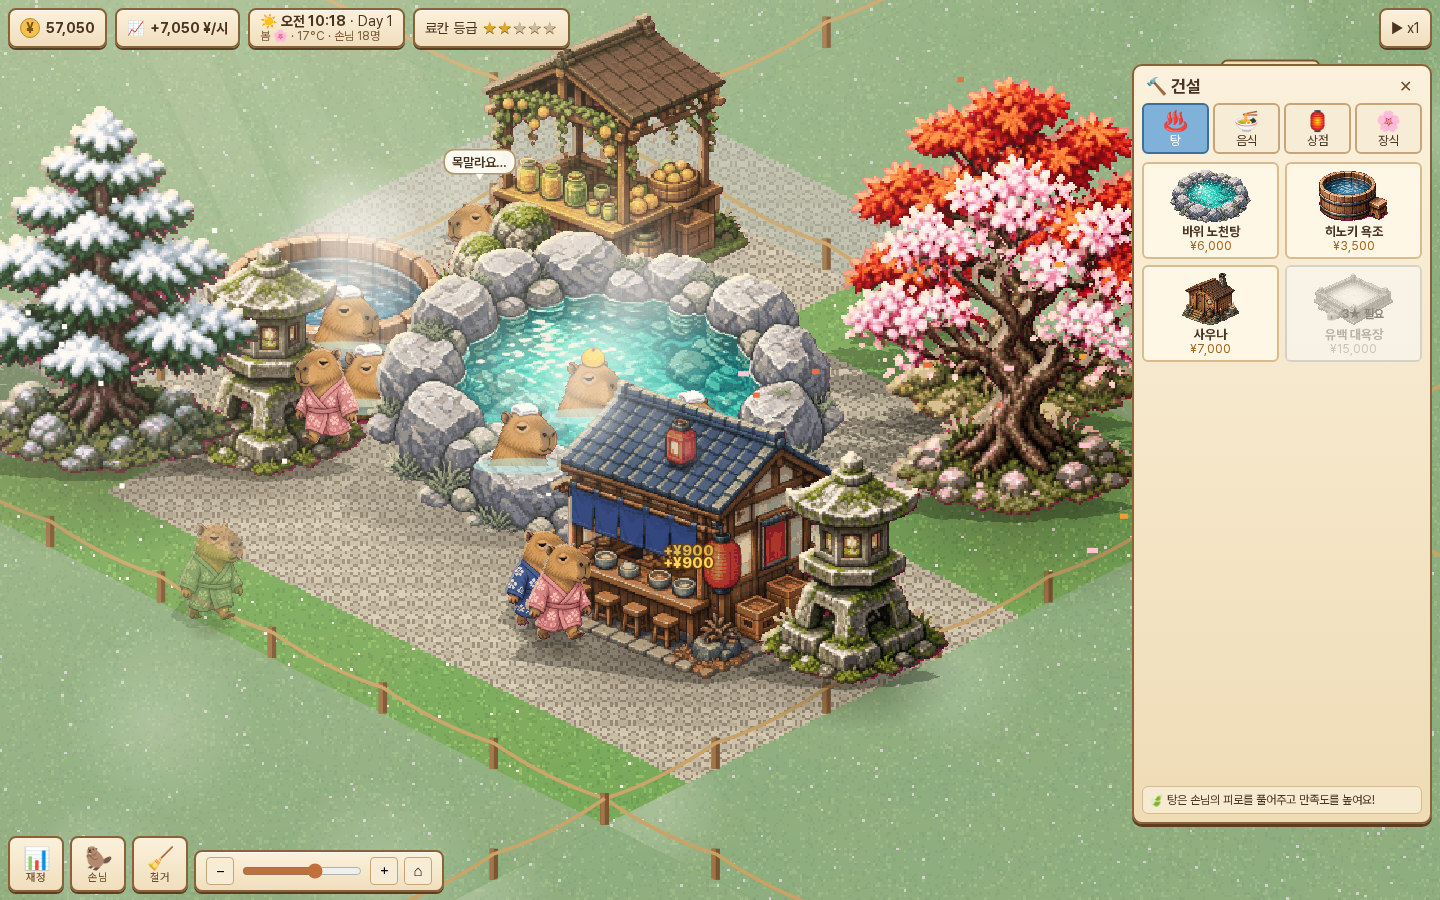
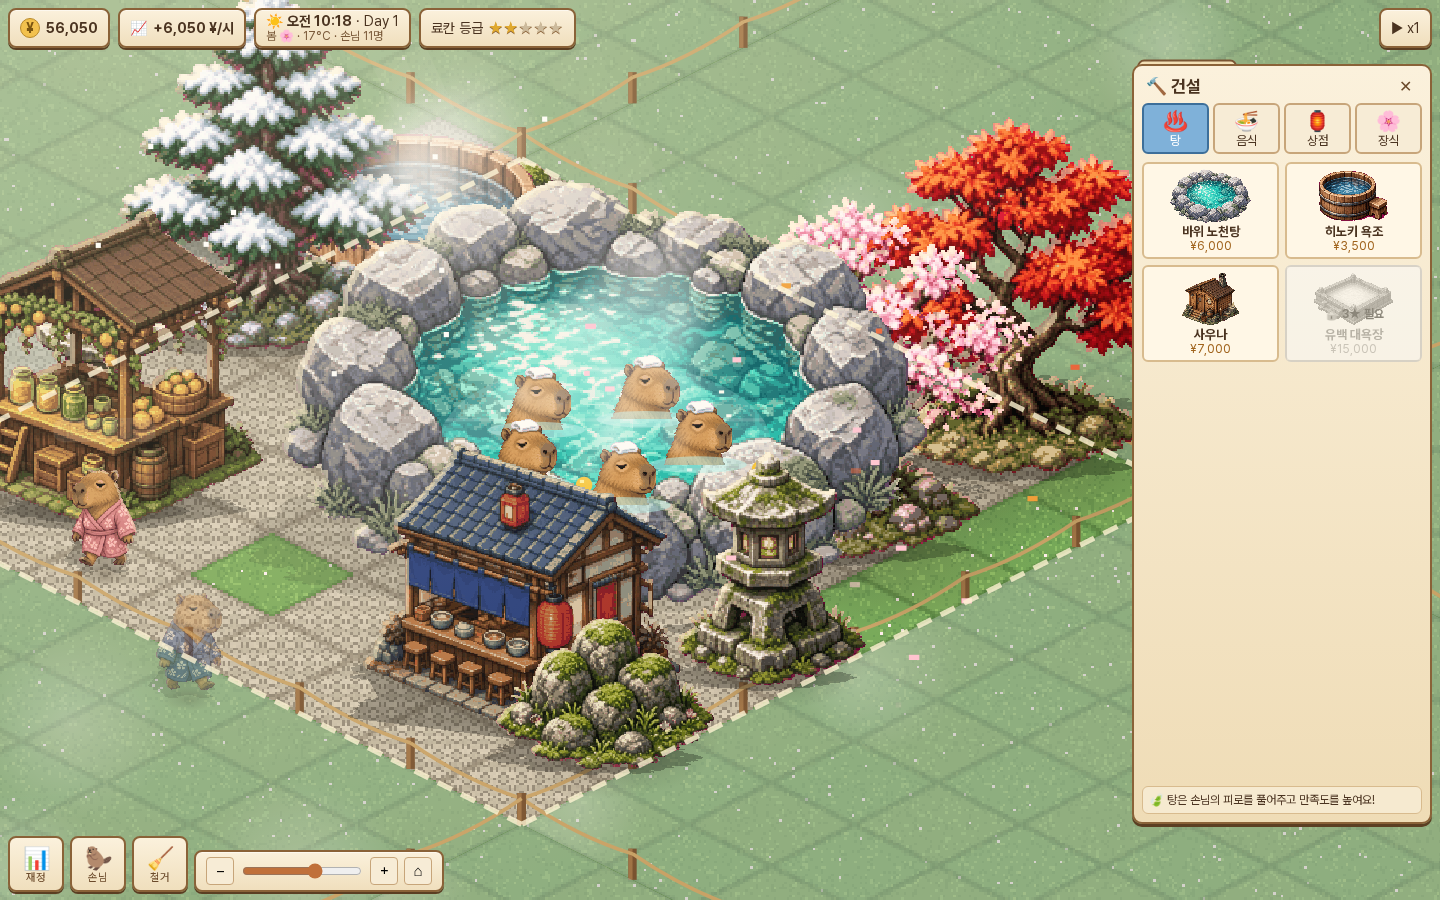
v2.1: footprint-fit sprites, occupancy + save migration, box depth sort, occlusion fade, A* guest paths, clearer grid, bubble stacking

diff --git a/game.js b/game.js
@@ -5,17 +5,17 @@ const START_PLOT=[1,1];
 const $=id=>document.getElementById(id);
 const cv=$('c'),cx=cv.getContext('2d'),tc=$('tc'),tx=tc.getContext('2d');
 const DEF={
- rock:{n:'바위 노천탕',tab:'bath',img:'rock',fp:3,sc:0.99,cost:6000,price:600,cap:4,dur:28,eff:{fatigue:-70,fun:12},wage:60,star:1,bath:1,water:'#8fe3df',appeal:12,desc:'김이 피어오르는 바위 노천탕'},
- hinoki:{n:'히노키 욕조',tab:'bath',img:'hinoki',fp:2,sc:0.87,cost:3500,price:450,cap:2,dur:22,eff:{fatigue:-50,fun:8},wage:35,star:1,bath:1,water:'#9fd6e6',appeal:7,desc:'편백나무 향 가득한 욕조'},
- sauna:{n:'사우나',tab:'bath',img:'sauna',fp:2,sc:0.97,cost:7000,price:700,cap:3,dur:20,eff:{fatigue:-40,fun:25},wage:55,star:2,appeal:8,light:[[0.1,-0.45]],desc:'땀 빼고 나면 개운!'},
- milky:{n:'유백 대욕장',tab:'bath',img:'milky',fp:3,sc:0.97,cost:15000,price:1100,cap:6,dur:30,eff:{fatigue:-85,fun:15},wage:110,star:3,bath:1,water:'#f1ede0',appeal:16,desc:'우윳빛 온천수의 대욕장'},
- ramen:{n:'라멘집',tab:'food',img:'ramen',fp:2,sc:1.03,cost:4000,price:900,cap:3,dur:15,eff:{hunger:-70,fun:5},wage:45,star:1,appeal:6,light:[[0.15,-0.55],[0.28,-0.3]],desc:'유자 시오 라멘이 명물'},
- teishoku:{n:'정식당',tab:'food',img:'teishoku',fp:2,sc:1.06,cost:9000,price:1600,cap:4,dur:20,eff:{hunger:-90,fun:10},wage:80,star:2,appeal:8,light:[[0.3,-0.35]],desc:'오늘의 유자 연어 정식'},
- izakaya:{n:'이자카야',tab:'food',img:'izakaya',fp:2,sc:1.01,cost:16000,price:2200,cap:5,dur:25,eff:{hunger:-50,thirst:-50,fun:40},wage:120,star:3,appeal:10,night:1,light:[[-0.1,-0.6],[0.1,-0.6],[0.3,-0.6]],desc:'밤에 북적이는 선술집'},
- milk:{n:'우유 매점',tab:'shop',img:'yuzu',filter:'saturate(0.35) brightness(1.12)',fp:2,sc:0.92,cost:1500,price:250,cap:3,dur:8,eff:{thirst:-70},wage:20,star:1,appeal:4,desc:'목욕 후엔 역시 커피우유'},
- yuzu:{n:'유자차 매점',tab:'shop',img:'yuzu',fp:2,sc:0.92,cost:2500,price:350,cap:3,dur:8,eff:{thirst:-60,fun:8},wage:25,star:1,appeal:6,desc:'따끈한 유자차 한 잔'},
- gift:{n:'기념품 가게',tab:'shop',img:'gift',fp:2,sc:0.99,cost:6000,price:1500,cap:3,dur:12,eff:{fun:-0,joy:30},wage:50,star:2,appeal:7,fun:1,light:[[0.2,-0.4]],desc:'카피바라 인형이 인기'},
- room:{n:'객실 별채',tab:'shop',img:'room',fp:3,sc:0.92,cost:12000,price:6000,cap:4,dur:0,eff:{fatigue:-100},wage:90,star:2,appeal:10,stay:1,light:[[-0.2,-0.3],[0.25,-0.3],[0,-0.55]],desc:'밤에 묵어가는 손님용 객실'},
+ rock:{n:'바위 노천탕',tab:'bath',img:'rock',fp:4,sc:1,cost:6000,price:600,cap:5,dur:28,eff:{fatigue:-70,fun:12},wage:60,star:1,bath:1,water:'#8fe3df',appeal:12,desc:'김이 피어오르는 바위 노천탕'},
+ hinoki:{n:'히노키 욕조',tab:'bath',img:'hinoki',fp:2,sc:1,cost:3500,price:450,cap:2,dur:22,eff:{fatigue:-50,fun:8},wage:35,star:1,bath:1,water:'#9fd6e6',appeal:7,desc:'편백나무 향 가득한 욕조'},
+ sauna:{n:'사우나',tab:'bath',img:'sauna',fp:2,sc:1,cost:7000,price:700,cap:3,dur:20,eff:{fatigue:-40,fun:25},wage:55,star:2,appeal:8,light:[[0.1,-0.45]],desc:'땀 빼고 나면 개운!'},
+ milky:{n:'유백 대욕장',tab:'bath',img:'milky',fp:4,sc:1,cost:15000,price:1100,cap:6,dur:30,eff:{fatigue:-85,fun:15},wage:110,star:3,bath:1,water:'#f1ede0',appeal:16,desc:'우윳빛 온천수의 대욕장'},
+ ramen:{n:'라멘집',tab:'food',img:'ramen',fp:2,sc:1,cost:4000,price:900,cap:3,dur:15,eff:{hunger:-70,fun:5},wage:45,star:1,appeal:6,light:[[0.15,-0.55],[0.28,-0.3]],desc:'유자 시오 라멘이 명물'},
+ teishoku:{n:'정식당',tab:'food',img:'teishoku',fp:2,sc:1,cost:9000,price:1600,cap:4,dur:20,eff:{hunger:-90,fun:10},wage:80,star:2,appeal:8,light:[[0.3,-0.35]],desc:'오늘의 유자 연어 정식'},
+ izakaya:{n:'이자카야',tab:'food',img:'izakaya',fp:2,sc:1,cost:16000,price:2200,cap:5,dur:25,eff:{hunger:-50,thirst:-50,fun:40},wage:120,star:3,appeal:10,night:1,light:[[-0.1,-0.6],[0.1,-0.6],[0.3,-0.6]],desc:'밤에 북적이는 선술집'},
+ milk:{n:'우유 매점',tab:'shop',img:'yuzu',filter:'saturate(0.35) brightness(1.12)',fp:2,sc:1,cost:1500,price:250,cap:3,dur:8,eff:{thirst:-70},wage:20,star:1,appeal:4,desc:'목욕 후엔 역시 커피우유'},
+ yuzu:{n:'유자차 매점',tab:'shop',img:'yuzu',fp:2,sc:1,cost:2500,price:350,cap:3,dur:8,eff:{thirst:-60,fun:8},wage:25,star:1,appeal:6,desc:'따끈한 유자차 한 잔'},
+ gift:{n:'기념품 가게',tab:'shop',img:'gift',fp:2,sc:1,cost:6000,price:1500,cap:3,dur:12,eff:{fun:-0,joy:30},wage:50,star:2,appeal:7,fun:1,light:[[0.2,-0.4]],desc:'카피바라 인형이 인기'},
+ room:{n:'객실 별채',tab:'shop',img:'room',fp:3,sc:1,cost:12000,price:6000,cap:4,dur:0,eff:{fatigue:-100},wage:90,star:2,appeal:10,stay:1,light:[[-0.2,-0.3],[0.25,-0.3],[0,-0.55]],desc:'밤에 묵어가는 손님용 객실'},
  sakura:{n:'벚꽃나무',tab:'deco',img:'sakura',fp:1,sc:2.3,cost:1200,beauty:8,star:1,emit:'petal',desc:'꽃잎이 흩날려요'},
  maple:{n:'단풍나무',tab:'deco',img:'maple',fp:1,sc:2.3,cost:1200,beauty:8,star:1,emit:'leaf',desc:'붉은 잎이 떨어져요'},
  pine:{n:'눈 내린 소나무',tab:'deco',img:'pine',fp:1,sc:2.0,cost:2000,beauty:10,star:2,emit:'snow',desc:'주변에 눈이 내려요'},
@@ -32,7 +32,7 @@ let S;
 function fresh(){
  const plots={};plots[START_PLOT.join(',')]=1;
  const o=[];const b=(k,x,y)=>o.push({k,x,y,lv:1,price:DEF[k].price||0,uses:0,earn:0});
- b('rock',10,10);b('lantern',9,13);b('sakura',14,9);b('rocks',9,10);for(let i=9;i<16;i++)b('path',i,14);
+ b('rock',10,9);b('lantern',9,14);b('sakura',14,10);b('rocks',9,9);for(let i=8;i<16;i++)b('path',i,15);for(let j=13;j<15;j++)b('path',12,j);
  return {yen:8000,min:8*60+40,plots,objs:o,fin:{inc:0,exp:0,hist:[]},rep:55,t:Date.now(),served:0,ver:2};
 }
 function load(){
@@ -43,6 +43,13 @@ function load(){
    return}}catch(e){}
  S=fresh();
 }
+function migrate(){ // 겹치거나 잠긴 땅의 건물 → 재배치 또는 환불
+ const keep=[],m={};let moved=0,refund=0;const fits=(o,x,y)=>{const f=DEF[o.k].fp;for(let i=0;i<f;i++)for(let j=0;j<f;j++){if(!tileOpen(x+i,y+j)||m[(x+i)+','+(y+j)])return false}return true};
+ const sorted=S.objs.filter(o=>DEF[o.k]).sort((a,b)=>(DEF[b.k].bath?1:0)-(DEF[a.k].bath?1:0)||DEF[b.k].fp-DEF[a.k].fp);
+ for(const o of sorted){let ok=fits(o,o.x,o.y);if(!ok&&o.k!='path'){let best=null;for(let r=1;r<10&&!best;r++)for(let dx=-r;dx<=r&&!best;dx++)for(let dy=-r;dy<=r;dy++)if(fits(o,o.x+dx,o.y+dy)){best=[o.x+dx,o.y+dy];break}
+   if(best){o.x=best[0];o.y=best[1];ok=true;moved++}}
+  if(ok){const f=DEF[o.k].fp;for(let i=0;i<f;i++)for(let j=0;j<f;j++)m[(o.x+i)+','+(o.y+j)]=1;keep.push(o)}else{refund+=DEF[o.k].cost;S.yen+=DEF[o.k].cost}}
+ S.objs=keep;if(moved||refund)setTimeout(()=>toast(`겹친 건물 정리: ${moved}개 이동${refund?`, ¥${fmt(refund)} 환불`:''}`),1200)}
 function save(){S.t=Date.now();localStorage.onsen2=JSON.stringify(S)}
 const fmt=n=>Math.floor(n).toLocaleString('ko-KR');
 function avgNet(){const h=S.fin.hist;if(!h.length)return 0;const a=h.slice(-24);return a.reduce((s,x)=>s+x,0)/a.length}
@@ -89,12 +96,14 @@ function buildGround(){
   for(let py=0;py<TH*2;py++)for(let px=0;px<TW*2;px++){
    const dx=Math.abs(px+0.5-TW)/(TW),dy=Math.abs(py+0.5-TH)/(TH);if(dx+dy>1)continue;
    let c;const n=r();
-   if(cob){const sx=Math.floor((px+py*2)/7),sy=Math.floor((px-py*2+140)/7);const seam=((px+py*2)%7==0)||((px-py*2+140)%7==0);
+   if(false){}if(cob){const sx=Math.floor((px+py*2)/7),sy=Math.floor((px-py*2+140)/7);const seam=((px+py*2)%7==0)||((px-py*2+140)%7==0);
      const v=((sx*7+sy*13+x*3+y*5)%5)*6;c=seam?[150,140,124]:[196+v-n*10,186+v-n*10,166+v-n*8];}
    else{const v=n<0.08?22:n<0.2?-12:0;const fl=n>0.995;c=fl?[255,240,246]:[118+v+((x+y)%2)*4,170+v,92+v*0.6];
      if(n>0.985&&!fl)c=[150,196,108];}
    const i=(py*TW*2+px)*4;id.data[i]=c[0];id.data[i+1]=c[1];id.data[i+2]=c[2];id.data[i+3]=255;}
   const tmp=mk(TW*2,TH*2);tmp.getContext('2d').putImageData(id,0,0);g.drawImage(tmp,X-TW/2,Y,TW,TH);
+  g.beginPath();g.moveTo(X,Y+0.25);g.lineTo(X+TW/2-0.5,Y+TH/2);g.lineTo(X,Y+TH-0.25);g.lineTo(X-TW/2+0.5,Y+TH/2);g.closePath();
+  g.lineWidth=0.5;g.strokeStyle=cob?'rgba(90,78,62,0.45)':'rgba(48,84,36,0.42)';g.stroke();
  }
  groundDirty=false;
 }
@@ -123,10 +132,10 @@ const THOUGHT={
  pricey:['너무 비싸요…','가격이 좀…','지갑이 울어요'],
  none:{fatigue:'쉴 곳이 없네…',hunger:'뭐 먹을 데 없나…',thirst:'목말라요…',fun:'좀 심심하다'},
  want:{fatigue:'온천 하고 싶다',hunger:'배고파요',thirst:'우유 마시고 싶다',fun:'구경하고 싶어요'}};
-function entrance(){let best=null;for(const k in S.plots){const[px,py]=k.split(',').map(Number);if(!best||px+py>best[0]+best[1])best=[px,py]}return[best[0]*PS+PS/2,best[1]*PS+PS+0.3]}
+function entrance(){const s=START_PLOT;return[s[0]*PS+PS/2,s[1]*PS+PS]}
 function spawnRate(){const h=hour();const f=h<6?0.05:h<9?0.5:h<12?0.7:h<15?0.6:h<17?0.8:h<21?1.15:h<23?0.5:0.15;return f*(0.12+stars()*0.06)}
 function spawn(){const[ex,ey]=entrance();const vip=Math.random()<0.1*stars();
- guests.push({x:ex+(Math.random()-0.5)*2,y:ey,tx:ex,ty:ey-1,st:'walk',spr:'cw'+(1+(Math.random()*4|0)),cb:'cb'+(1+(Math.random()*4|0)),
+ guests.push({x:ex+0.5,y:ey+0.8,tx:ex+0.5,ty:ey-0.5,path:[[ex+0.5,ey-0.5]],st:'walk',spr:'cw'+(1+(Math.random()*4|0)),cb:'cb'+(1+(Math.random()*4|0)),
   need:{fatigue:50+Math.random()*45,hunger:20+Math.random()*60,thirst:20+Math.random()*60,fun:20+Math.random()*50},
   budget:Math.round((2500+Math.random()*5000)*(vip?2.2:1)),happy:60,t:0,target:null,life:0,dir:1,bob:Math.random()*6,fade:0})}
 function pickTarget(g){
@@ -143,12 +152,23 @@ function pickBy(g,list,nk){list.sort((a,b)=>(dist(g,a)+a.price/300)-(dist(g,b)+b
 const ctr=o=>{const f=DEF[o.k].fp;return[o.x+f/2,o.y+f/2]};
 const dist=(g,o)=>{const[a,b]=ctr(o);return Math.hypot(a-g.x,b-g.y)};
 function think(g,t){if(!t)return;bubbles=bubbles.filter(b=>b.g!==g);if(bubbles.length>=4)return;bubbles.push({g,t,l:3.2})}
-function door(o){const f=DEF[o.k].fp;return[o.x+f/2,o.y+f+0.25]}
-function bathSlot(o,i){const f=DEF[o.k].fp,c=ctr(o),n=DEF[o.k].cap+o.lv-1;const a=(i/n)*Math.PI*2+0.6;const r=f*0.24;return[c[0]+Math.cos(a)*r,c[1]+Math.sin(a)*r]}
+function walkable(x,y){if(!tileOpen(x,y))return false;const o=OCC[x+','+y];return !o||o.k=='path'||DEF[o.k].fp==1&&o.k=='path'}
+function doorTile(o){const f=DEF[o.k].fp;const c=[[o.x+(f>>1),o.y+f],[o.x+f,o.y+(f>>1)],[o.x+(f>>1),o.y-1],[o.x-1,o.y+(f>>1)]];for(let i=0;i<f;i++)c.push([o.x+i,o.y+f],[o.x+f,o.y+i],[o.x-1,o.y+i],[o.x+i,o.y-1]);return c.find(([x,y])=>walkable(x,y))}
+function door(o){const d=doorTile(o)||[o.x,o.y+DEF[o.k].fp];return[d[0]+0.5,d[1]+0.5]}
+function findPath(sx,sy,ex,ey){sx|=0;sy|=0;ex|=0;ey|=0;if(sx==ex&&sy==ey)return[];
+ const K=(x,y)=>y*N+x,open=[[0,sx,sy]],g={},from={};g[K(sx,sy)]=0;let it=0;
+ while(open.length&&it++<3000){let bi=0;for(let i=1;i<open.length;i++)if(open[i][0]<open[bi][0])bi=i;const[,x,y]=open.splice(bi,1)[0];
+  if(x==ex&&y==ey){const p=[];let k=K(x,y);while(k!=K(sx,sy)){p.unshift([k%N+0.5,Math.floor(k/N)+0.5]);k=from[k]}return p}
+  for(const[dx,dy]of[[1,0],[-1,0],[0,1],[0,-1]]){const nx=x+dx,ny=y+dy;if(!(nx==ex&&ny==ey)&&!walkable(nx,ny))continue;
+   const o=OCC[nx+','+ny];const c=g[K(x,y)]+(o&&o.k=='path'?0.6:1);if(g[K(nx,ny)]==null||c<g[K(nx,ny)]){g[K(nx,ny)]=c;from[K(nx,ny)]=K(x,y);open.push([c+Math.abs(ex-nx)+Math.abs(ey-ny),nx,ny])}}}
+ return null}
+function goTo(g,x,y){const p=findPath(g.x,g.y,x,y);if(!p){g.path=[];return false}g.path=p;return true}
+function bathSlot(o,i){const f=DEF[o.k].fp,c=ctr(o),n=DEF[o.k].cap+o.lv-1;const a=(i/n)*Math.PI*2+0.6;const r=f*0.2;return[c[0]+Math.cos(a)*r,c[1]+Math.sin(a)*r]}
 function updGuest(g,dt){
  g.life+=dt;g.fade=Math.min(1,g.fade+dt*2);for(const k of NEEDK)g.need[k]=Math.min(100,g.need[k]+dt*(k=='fatigue'?0.2:0.9));
  g.happy=Math.max(0,Math.min(100,g.happy+(beautyAt(g.x,g.y)*0.02-0.03)*dt));
- if(g.st=='walk'){const dx=g.tx-g.x,dy=g.ty-g.y,d=Math.hypot(dx,dy);
+ if(g.st=='walk'){if(g.path&&g.path.length){g.tx=g.path[0][0];g.ty=g.path[0][1]}const dx=g.tx-g.x,dy=g.ty-g.y,d=Math.hypot(dx,dy);
+  if(d<=0.05&&g.path&&g.path.length){g.path.shift();return}
   if(d>0.05){const sp=1.3*dt;g.x+=dx/d*Math.min(sp,d);g.y+=dy/d*Math.min(sp,d);g.dir=(dx-dy)>=0?1:-1;return}
   if(g.target){arrive(g);return}
   if(g.leaving){g.dead=1;return}
@@ -158,8 +178,8 @@ function updGuest(g,dt){
 function decide(g){
  if(g.life>220||g.budget<200||g.happy<15){leave(g);return}
  const o=pickTarget(g);if(!o){if(NEEDK.every(k=>g.need[k]<35)||Math.random()<0.4){leave(g);return}
-  const[ex,ey]=entrance();g.tx=ex+(Math.random()-0.5)*4;g.ty=ey-1-Math.random()*3;if(!tileOpen(g.tx|0,g.ty|0)){g.tx=ex;g.ty=ey-1}return}
- g.target=o;const[a,b]=door(o);g.tx=a;g.ty=b;}
+  for(let i=0;i<8;i++){const x=(Math.random()*N)|0,y=(Math.random()*N)|0;if(walkable(x,y)&&goTo(g,x,y))return}leave(g);return}
+ const dt_=doorTile(o);if(!dt_||!goTo(g,dt_[0],dt_[1])){think(g,'길이 막혔어요…');(g.used=g.used||[]).push(o);g.happy-=3;g.path=[];return}g.target=o;}
 function arrive(g){const o=g.target,d=DEF[o.k];g.target=null;o.users=o.users||0;
  if(!S.objs.includes(o)){decide(g);return}
  const cap=d.cap+o.lv-1;if(o.users>=cap){think(g,'자리가 없네…');g.happy-=4;(g.used=g.used||[]).push(o);return}
@@ -174,8 +194,8 @@ function arrive(g){const o=g.target,d=DEF[o.k];g.target=null;o.users=o.users||0;
  if(d.joy)g.happy+=d.joy*0.3;if(d.bath&&Math.random()<0.6)setTimeout(()=>think(g,THOUGHT.good[Math.random()*6|0]),1500);}
 function freeSlot(o){const used=guests.filter(x=>x.cur===o&&x.inBath).map(x=>x.slot);for(let i=0;i<20;i++)if(!used.includes(i))return i;return 0}
 function finish(g){const o=g.cur;if(o)o.users=Math.max(0,o.users-1);(g.used=g.used||[]).push(o);if(g.used.length>3)g.used.shift();
- g.cur=null;g.hide=false;if(g.inBath){const[a,b]=door(o);g.x=a;g.y=b;g.inBath=false}g.st='walk';g.tx=g.x;g.ty=g.y}
-function leave(g){g.leaving=true;g.target=null;const[ex,ey]=entrance();g.tx=ex+(Math.random()-0.5)*2;g.ty=ey+1.2;
+ g.cur=null;g.hide=false;const[a,b]=door(o);g.x=a;g.y=b;g.inBath=false;g.st='walk';g.tx=g.x;g.ty=g.y;g.path=[]}
+function leave(g){g.leaving=true;g.target=null;const[ex,ey]=entrance();if(!goTo(g,ex,ey-1))g.path=[[ex+0.5,ey-0.5]];g.path.push([ex+0.5,ey+0.8]);
  S.rep=S.rep*0.97+g.happy*0.03;if(g.happy>70&&Math.random()<0.5)think(g,'또 올게요~');}
 const toScreenT=(x,y)=>{const[a,b]=iso(x,y);return toScreen(a,b)};
 // ===== 파티클 =====
@@ -199,7 +219,7 @@ function drawSprite(key,o,X,Y,W,lt,sv,alpha){ // X,Y: 바닥 중앙(월드), W: 
 function drawShadow(key,X,Y,W,lt,sv,str){const v=VAR[key];if(!v||lt.sun<0.1)return;const h=W*v.base.height/v.base.width;
  cx.save();cx.globalAlpha=0.28*lt.sun*(str||1);cx.translate(X,Y);cx.transform(1,0,-sv.kx,sv.ky,0,0);cx.drawImage(v.sil,-W/2,-h,W,h);cx.restore()}
 function ao(X,Y,rx,ry,a){const g=cx.createRadialGradient(X,Y,0,X,Y,rx);g.addColorStop(0,`rgba(40,30,20,${a})`);g.addColorStop(1,'rgba(40,30,20,0)');cx.save();cx.translate(X,Y);cx.scale(1,ry/rx);cx.translate(-X,-Y);cx.fillStyle=g;cx.fillRect(X-rx,Y-rx,rx*2,rx*2);cx.restore()}
-function objGeom(o){const d=DEF[o.k],f=d.fp;const[cX,cY]=iso(o.x+f/2,o.y+f/2);const sY=iso(o.x+f,o.y+f)[1];return{X:cX,Y:sY-f*1.2,cY,W:f*TW*(d.sc||1)}}
+function objGeom(o){const d=DEF[o.k],f=d.fp;const[cX,cY]=iso(o.x+f/2,o.y+f/2);const sY=iso(o.x+f,o.y+f)[1];const W=f*TW*(d.sc||1);const v=VAR[o.k];const H=v?W*v.base.height/v.base.width:W;return{X:cX,Y:sY+(f==1?-1:0.5),cY,W,H}}
 function render(t){
  const lt=light(),sv=sunVec(),z=cam.z;
  cx.setTransform(DPR,0,0,DPR,0,0);cx.imageSmoothingEnabled=false;
@@ -213,14 +233,22 @@ function render(t){
  drawPlots(t,lt);
  // 그림자 + 오브젝트 + 손님 정렬
  const list=[];
- for(const o of S.objs){if(o.k=='path')continue;const d=DEF[o.k];list.push({z:o.x+o.y+d.fp*2-1,o})}
- for(const g of guests)if(!g.hide)list.push({z:g.inBath?g.cur.x+g.cur.y+DEF[g.cur.k].fp*2-1+0.01+g.y*0.001:g.x+g.y+0.2,g});
- list.sort((a,b)=>a.z-b.z);
- for(const it of list)if(it.o){const o=it.o,G=objGeom(o),key=o.k;ao(G.X,G.cY+DEF[o.k].fp*3,G.W*0.55,G.W*0.28,0.35);drawShadow(key,G.X,G.Y,G.W,lt,sv,DEF[o.k].bath?0.4:1)}
+ for(const o of S.objs){if(o.k=='path')continue;const f=DEF[o.k].fp;list.push({x0:o.x,y0:o.y,x1:o.x+f,y1:o.y+f,o})}
+ for(const g of guests)if(!g.hide&&!g.inBath)list.push({x0:g.x-0.15,y0:g.y-0.15,x1:g.x+0.15,y1:g.y+0.15,g});
+ list.forEach(a=>a.z=a.x1+a.y1);
+ const cmp=(a,b)=>{if(a.x1<=b.x0+1e-3&&!(b.x1<=a.x0))return a.y0>=b.y1?1:-1;if(b.x1<=a.x0+1e-3)return b.y0>=a.y1?-1:1;if(a.y1<=b.y0+1e-3)return -1;if(b.y1<=a.y0+1e-3)return 1;return a.z-b.z};
+ // 삽입 정렬(위상 근사)
+ const sorted=[];for(const a of list.sort((p,q)=>p.z-q.z)){let i=sorted.length;while(i>0&&cmp(sorted[i-1],a)>0)i--;sorted.splice(i,0,a)}list.length=0;list.push(...sorted);
+ // 뒤에 가려진 손님/커서가 있으면 건물 반투명
+ const hidden=new Set();for(const it of list){if(!it.o)continue;const o=it.o,G=objGeom(o);
+  const pts=guests.filter(g=>!g.hide&&!g.inBath&&g.x<it.x1&&g.y<it.y1&&!(g.x>=it.x0&&g.y>=it.y0)&&(g.x+g.y)<it.x1+it.y1-0.5).map(g=>iso(g.x,g.y));
+  if(hoverT&&ghost)pts.push(iso(hoverT[0]+0.5,hoverT[1]+0.5));
+  if(pts.some(([X,Y])=>Math.abs(X-G.X)<G.W*0.42&&Y<G.Y-6&&Y>G.Y-G.H*0.9))hidden.add(o)}
+ for(const it of list)if(it.o){const o=it.o,G=objGeom(o),key=o.k;ao(G.X,G.cY,G.W*0.5,G.W*0.25,0.3);drawShadow(key,G.X,G.Y,G.W,lt,sv,DEF[o.k].bath?0.4:1)}
  for(const it of list){
   if(it.o){const o=it.o,d=DEF[o.k],G=objGeom(o);const an=anims['o'+S.objs.indexOf(o)];const pop=an?Math.min(1,an.t*3):1;
-   const Wp=G.W*(0.7+0.3*easeOut(pop));drawSprite(o.k,o,G.X,G.Y,Wp,lt,sv,pop);
-   if(d.bath)drawWater(o,G,t,lt);
+   const Wp=G.W*(0.7+0.3*easeOut(pop));const fade=hidden.has(o)&&!d.bath&&d.fp>1;drawSprite(o.k,o,G.X,G.Y,Wp,lt,sv,pop*(fade?0.5:1));
+   if(d.bath){drawWater(o,G,t,lt);guests.filter(g=>g.inBath&&g.cur===o).sort((a,b)=>a.x+a.y-b.x-b.y).forEach(g=>drawGuest(g,t,lt,sv))}
    if(o.lv>1){for(let i=0;i<o.lv-1;i++){cx.fillStyle='#f6cf5a';cx.fillRect(G.X-8+i*4,G.Y+1,3,3)}}}
   else drawGuest(it.g,t,lt,sv);}
  // 파티클
@@ -233,6 +261,8 @@ function render(t){
    for(let i=0;i<3;i++){const ox=G.X-G.W*0.35+i*G.W*0.3+Math.sin(t/3000+i)*4;const a=(0.07+0.04*Math.sin(t/1700+i*2))*lt.sun;
     const gr=cx.createLinearGradient(ox-40,G.cY-90,ox,G.cY);gr.addColorStop(0,'rgba(255,246,214,0)');gr.addColorStop(0.6,`rgba(255,246,214,${a})`);gr.addColorStop(1,'rgba(255,246,214,0)');
     cx.fillStyle=gr;cx.beginPath();cx.moveTo(ox-50+sv.kx*10,G.cY-100);cx.lineTo(ox-38+sv.kx*10,G.cY-100);cx.lineTo(ox+8,G.cY+4);cx.lineTo(ox-4,G.cY+4);cx.fill()}}cx.restore()}
+ // 건설 모드 그리드 + 열린 구역 테두리
+ drawGrid();
  // 고스트
  if(ghost&&hoverT){const ok=canPlace(ghost,hoverT[0],hoverT[1]);const f=DEF[ghost].fp;cx.fillStyle=ok?'rgba(140,230,140,0.45)':'rgba(240,110,100,0.45)';
   for(let i=0;i<f;i++)for(let j=0;j<f;j++){const[X,Y]=iso(hoverT[0]+i,hoverT[1]+j);cx.beginPath();cx.moveTo(X,Y);cx.lineTo(X+16,Y+8);cx.lineTo(X,Y+16);cx.lineTo(X-16,Y+8);cx.fill()}
@@ -250,12 +280,20 @@ function render(t){
  cx.globalCompositeOperation='source-over';
  drawText(t,lt);
 }
+function drawGrid(){const P=N/PS;
+ if(ghost||mode=='del'){cx.lineWidth=0.6;cx.strokeStyle='rgba(255,255,255,0.55)';cx.beginPath();
+  for(let y=0;y<N;y++)for(let x=0;x<N;x++){if(!tileOpen(x,y))continue;const[X,Y]=iso(x,y);cx.moveTo(X,Y);cx.lineTo(X+16,Y+8);cx.lineTo(X,Y+16);cx.lineTo(X-16,Y+8);cx.closePath()}cx.stroke();
+  cx.fillStyle='rgba(240,90,80,0.22)';for(const k in OCC){const[x,y]=k.split(',').map(Number);if(OCC[k].k=='path')continue;const[X,Y]=iso(x,y);cx.beginPath();cx.moveTo(X,Y);cx.lineTo(X+16,Y+8);cx.lineTo(X,Y+16);cx.lineTo(X-16,Y+8);cx.fill()}}
+ cx.save();cx.setLineDash([3,2]);cx.lineWidth=1;cx.strokeStyle='rgba(255,248,220,0.8)';cx.beginPath();
+ for(let py=0;py<P;py++)for(let px=0;px<P;px++){if(!plotOpen(px,py))continue;const x0=px*PS,y0=py*PS;
+  const E=[[[x0,y0],[x0+PS,y0],!plotOpen(px,py-1)],[[x0+PS,y0],[x0+PS,y0+PS],!plotOpen(px+1,py)],[[x0+PS,y0+PS],[x0,y0+PS],!plotOpen(px,py+1)],[[x0,y0+PS],[x0,y0],!plotOpen(px-1,py)]];
+  for(const[a,b,on]of E)if(on){cx.moveTo(...iso(...a));cx.lineTo(...iso(...b))}}cx.stroke();cx.restore()}
 const easeOut=t=>1-Math.pow(1-t,3);
 function glow(X,Y,r,c){const g=cx.createRadialGradient(X,Y,0,X,Y,r);g.addColorStop(0,c);g.addColorStop(1,'rgba(0,0,0,0)');cx.fillStyle=g;cx.fillRect(X-r,Y-r,r*2,r*2)}
 function drawForest(lt){const r=rng(42);for(let i=0;i<70;i++){const side=i%2;const k=r()*N;const x=side?-1.5-r()*3:k,y=side?k:-1.5-r()*3;const[X,Y]=iso(x,y);
   cx.fillStyle=`rgb(${60+r()*20|0},${104+r()*25|0},${70+r()*15|0})`;const h=18+r()*18;cx.beginPath();cx.moveTo(X,Y-h);cx.lineTo(X+9,Y);cx.lineTo(X-9,Y);cx.fill();
   cx.fillStyle='rgba(255,255,255,0.08)';cx.beginPath();cx.moveTo(X,Y-h);cx.lineTo(X-9,Y);cx.lineTo(X-3,Y);cx.fill()}}
-function drawWater(o,G,t,lt){const d=DEF[o.k],f=d.fp;const[cX,cY]=iso(o.x+f/2,o.y+f/2);const rx=f*TW*0.27,ry=f*TH*0.27;
+function drawWater(o,G,t,lt){const d=DEF[o.k],f=d.fp;const[cX,cY]=iso(o.x+f/2,o.y+f/2);const rx=f*TW*0.25,ry=f*TH*0.25;
  cx.save();cx.beginPath();cx.ellipse(cX,cY-1,rx,ry,0,0,6.283);cx.clip();
  // 반짝이는 하이라이트 띠
  cx.globalCompositeOperation='screen';for(let i=0;i<4;i++){const y=cY-ry+((t/90+i*ry*0.6)%(ry*2.4));cx.fillStyle=`rgba(255,255,255,${0.10+0.08*lt.sun})`;cx.fillRect(cX-rx,y,rx*2,0.6)}
@@ -295,7 +333,8 @@ function drawText(t,lt){ // 고해상도 텍스트 레이어
  for(const s of window._signs||[]){const[X,Y]=toScreen(s.X,s.Y);const fs=Math.max(9,Math.min(15,3.2*cam.z));tx.font=`700 ${fs}px Pretendard`;const t_='🔒 ¥'+fmt(s.price);const w=tx.measureText(t_).width+18;tx.fillStyle='#f3e0b6';tx.strokeStyle='#7a5432';tx.lineWidth=2;rr(tx,X-w/2,Y-fs,w,fs*2,6);tx.fill();tx.stroke();tx.fillStyle='#5b3e22';tx.fillText(t_,X,Y+1);}
  for(const f of floats){const[X,Y]=toScreenT(f.x,f.y);const a=Math.min(1,f.l);tx.globalAlpha=a;tx.font='800 15px Pretendard';tx.lineWidth=3;tx.strokeStyle='#6b4310';const yy=Y-40-(1.6-f.l)*30;tx.strokeText(f.t,X,yy);tx.fillStyle='#ffd65a';tx.fillText(f.t,X,yy)}
  tx.globalAlpha=1;
- for(const b of bubbles){const g=b.g;const[X0,Y0]=toScreenT(g.x,g.y);const Y=Y0-(g.inBath?14:26)*cam.z-8;tx.font='600 13px Pretendard';const w=tx.measureText(b.t).width+16;
+ const placed=[];for(const b of bubbles){const g=b.g;const[X0,Y0]=toScreenT(g.x,g.y);let Y=Y0-(g.inBath?14:26)*cam.z-8;tx.font='600 13px Pretendard';const w=tx.measureText(b.t).width+16;
+  for(let k=0;k<6;k++){const hit=placed.find(p=>Math.abs(p[0]-X0)<(p[2]+w)/2+4&&Math.abs(p[1]-Y)<28);if(!hit)break;Y=hit[1]-30}placed.push([X0,Y,w]);
   tx.globalAlpha=Math.min(1,b.l*2);tx.fillStyle='rgba(255,252,244,0.96)';tx.strokeStyle='#b89366';tx.lineWidth=1.5;rr(tx,X0-w/2,Y-13,w,24,10);tx.fill();tx.stroke();
   tx.beginPath();tx.moveTo(X0-4,Y+11);tx.lineTo(X0,Y+17);tx.lineTo(X0+4,Y+11);tx.fill();tx.fillStyle='#4a3320';tx.fillText(b.t,X0,Y);tx.globalAlpha=1}}
 function rr(c,x,y,w,h,r){c.beginPath();c.moveTo(x+r,y);c.arcTo(x+w,y,x+w,y+h,r);c.arcTo(x+w,y+h,x,y+h,r);c.arcTo(x,y+h,x,y,r);c.arcTo(x,y,x+w,y,r);c.closePath()}
@@ -390,7 +429,7 @@ function frame(now){const dt=Math.min(0.1,(now-last)/1000||0);last=now;
   cam.x=lerp(homeAnim.from.x,tx_,k);cam.y=lerp(homeAnim.from.y,ty_,k);if(homeAnim.t>=1)homeAnim=null}
  render(now);hud();saveAcc+=dt;if(saveAcc>5){saveAcc=0;save()}
  requestAnimationFrame(frame)}
-async function boot(){resize();addEventListener('resize',resize);load();S.objs.forEach(o=>o.users=0);OCC=occ();
+async function boot(){resize();addEventListener('resize',resize);load();S.objs.forEach(o=>o.users=0);migrate();OCC=occ();
  await Promise.all([loadImgs(),document.fonts.load('700 14px Pretendard'),document.fonts.ready]);
  for(const n of NAMES)if(IMG[n])variants(n,IMG[n]);variants('milk',IMG.yuzu,DEF.milk.filter);
  // 기존 이름 매핑

diff --git a/shot2.js b/shot2.js
@@ -5,10 +5,10 @@ for(const [w,h,tag] of [[1440,900,''],[390,844,'_m']]){
  p.on('pageerror',e=>errs.push(tag+' '+e.message));p.on('console',m=>m.type()=='error'&&errs.push(tag+' '+m.text()));
  await p.goto('http://localhost:8765/index.html');await p.waitForFunction(()=>window.__ready);
  await p.evaluate(()=>{const S=__dbg.S;S.yen=50000;const add=(k,x,y)=>S.objs.push({k,x,y,lv:1,price:({ramen:900,yuzu:350,hinoki:450,room:6000})[k]||0,uses:0,earn:0,users:0});
-  add('yuzu',8,8);add('ramen',13,12);add('hinoki',8,11);add('maple',13,8);add('lantern',15,12);add('pine',8,14);
+  add('yuzu',8,13);add('ramen',13,13);add('hinoki',8,9);add('maple',14,8);add('lantern',15,12);add('pine',8,11);add('rocks',15,14);
   __dbg.setHour(10);__dbg.refresh();for(let i=0;i<8;i++)__dbg.spawn()});
  await p.evaluate(()=>{location.hash='x'});
- await p.waitForTimeout(9000);await p.screenshot({path:`shot_day${tag}.png`});
+ await p.waitForTimeout(9000);await p.screenshot({path:`shot_day${tag}.png`});await p.evaluate(()=>document.querySelector('.card').click());await p.mouse.move(w*0.35,h*0.6);await p.waitForTimeout(600);await p.screenshot({path:`shot_build${tag}.png`});await p.keyboard.press('Escape');
  await p.evaluate(()=>__dbg.setHour(21));await p.waitForTimeout(3000);await p.screenshot({path:`shot_night${tag}.png`});
  await p.evaluate(()=>{__dbg.setHour(17.6);__dbg.cam.tz=1.1});await p.waitForTimeout(2500);await p.screenshot({path:`shot_wide${tag}.png`});
 }
